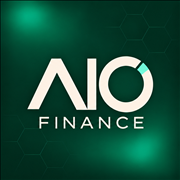
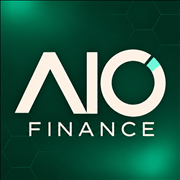
Refresh AIO Finance branding and feature overview

Changed region(s): [[0.0833, 0.25, 1.0, 1.0], [0.0, 0.0, 0.3333, 0.2222], [0.5833, 0.5556, 0.6389, 0.6111]]

diff --git a/src/features.html b/src/features.html
@@ -1,4 +1,6 @@
-<section class="feature-intro" id="hero"><div class="shell"><h1>What AIO Finance Does</h1><p class="lede">See what you can organize, what the planning tools calculate, and which reports you can create.</p><nav class="feature-nav" aria-label="Feature sections"><a href="#overview">Financial Overview</a><a href="#planning">Planning Tools</a><a href="#opportunity">Opportunity Comparison</a><a href="#reports">Reports</a><a href="#privacy">Data Control</a></nav></div></section><section id="overview" class="light"><div class="shell split"><div><p class="eyebrow">Financial Overview</p><h2>Net Worth and Cash Flow</h2><p class="lede">See net worth and cash flow alongside the records behind them. Review changes over time with Snapshot History.</p><ul class="feature-list"><li><strong>Budget &amp; Cash Flow</strong> Review income, expenses, savings allocations, and scheduled income.</li><li><strong>Assets &amp; Liabilities</strong> Organize what you own and owe. Recorded debt payments can feed cash flow and debt tools.</li><li><strong>Insurance &amp; Estate Organization</strong> Keep policy references, ownership, and beneficiary information alongside your financial records.</li></ul></div><div class="duo"><div class="phone"><img loading="lazy" src="assets/product/santorini-dark-budget.webp" width="390" height="844" alt="Budget summary showing cash flow"></div><div class="phone"><img loading="lazy" src="assets/product/santorini-dark-assets.webp" width="390" height="844" alt="Assets records in Accounts"></div></div></div></section>
+<section class="feature-intro" id="hero"><div class="shell"><h1>What AIO Finance Does</h1><p class="lede">See what you can organize, what the planning tools calculate, and which reports you can create.</p><nav class="feature-nav" aria-label="Feature sections"><a href="#overview">Financial Overview</a><a href="#statement-analysis">Statement Analysis</a><a href="#aio-assistant">AIO Assistant</a><a href="#planning">Planning Tools</a><a href="#opportunity">Opportunity Comparison</a><a href="#reports">Reports</a><a href="#privacy">Data Control</a></nav></div></section><section id="overview" class="light"><div class="shell split"><div><p class="eyebrow">Financial Overview</p><h2>Net Worth and Cash Flow</h2><p class="lede">See net worth and cash flow alongside the records behind them. Review changes over time with Snapshot History.</p><ul class="feature-list"><li><strong>Budget &amp; Cash Flow</strong> Review income, expenses, savings allocations, and scheduled income.</li><li><strong>Assets &amp; Liabilities</strong> Organize what you own and owe. Recorded debt payments can feed cash flow and debt tools.</li><li><strong>Insurance &amp; Estate Organization</strong> Keep policy references, ownership, and beneficiary information alongside your financial records.</li></ul></div><div class="duo"><div class="phone"><img loading="lazy" src="assets/product/santorini-dark-budget.webp" width="390" height="844" alt="Budget summary showing cash flow"></div><div class="phone"><img loading="lazy" src="assets/product/santorini-dark-assets.webp" width="390" height="844" alt="Assets records in Accounts"></div></div></div></section>
+<section id="statement-analysis" class="light"><div class="shell split"><div><h2>Statement Analysis</h2><p class="lede">Import checking and credit card activity to see what you spent by month and category. In the app, open Budget &rarr; Expenses &rarr; Analyze Statements.</p><p>Choose CSV, XLSX, or a supported PDF with selectable text. AIO reads the files on your device.</p></div><ul class="feature-list"><li><strong>Review Spending</strong> Review transfers, card payments, and possible duplicates separately from spending. Monthly averages use months fully covered for every account in the review.</li><li><strong>Review Suggested Expenses</strong> Edit recurring expense suggestions and choose which ones to apply to your budget.</li><li><strong>Export Your Findings</strong> Create a Transaction Analysis PDF with an optional transaction appendix.</li></ul></div></section>
+<section id="aio-assistant"><div class="shell split"><div><h2>AIO Assistant</h2><p class="lede">On eligible Apple devices, ask a question about your finances, explore a temporary comparison, or prepare an entry for review.</p><p>Open AIO Assistant beside Settings. It uses the on-device Apple model when available and the app&rsquo;s existing tools for calculations.</p><ul class="feature-list"><li><strong>Review Before Confirming</strong> Check the request and assumptions before running a calculation or preparing an entry. Save any new entry yourself in its form.</li><li><strong>Find Help &amp; Tools</strong> Search the in-app guide and open calculators and features. Android offers Help &amp; Tools.</li></ul></div><figure class="assistant-example"><div class="phone"><img loading="lazy" src="assets/product/aio-assistant-example.png" width="390" height="844" alt="AIO Assistant answers a question about paying an extra $300 per month on an auto loan with estimated interest savings and payoff times."></div><figcaption>Example conversation with fictional loan data</figcaption></figure></div></section>
 <section id="planning" class="light planning"><div class="shell"><div class="section-heading"><h2>Financial Planning Tools</h2><p class="lede">Enter your own assumptions, examine the results, and save supported scenarios to revisit.</p></div><div class="showcase plan-layout"><div class="choices" id="tools" role="group" aria-label="Select a planning tool"></div><div class="plan-copy" id="tool-copy" aria-live="polite"></div><div class="phone"><img id="tool-img" loading="lazy" src="assets/product/santorini-dark-opportunity.webp" width="390" height="844" alt="Opportunity Comparison"></div></div></div></section>
 <section id="opportunity"><div class="shell split"><div><p class="eyebrow">Opportunity Comparison</p><h2>Compare Rental and Business Scenarios</h2><p class="lede">Compare two to four saved Rental Analysis or Business Analysis scenarios. Review what each assumes about financing and operating costs, then compare modeled cash flow and each scenario’s own return measures.</p><p>Open either worksheet to revise its assumptions. AIO displays the results for you to interpret.</p><a class="button" href="#planning" data-opportunity>Explore Opportunity Comparison</a></div><div class="phone"><img loading="lazy" src="assets/product/santorini-dark-opportunity.webp" width="390" height="844" alt="Selected fictional rental and business scenarios in Opportunity Comparison"></div></div></section>
 <section id="reports" class="light"><div class="shell split"><div><h2>Financial Reports and Statements</h2><p class="lede">Create PDFs for your own review or share the reports you choose.</p><ul class="feature-list"><li><strong>Financial Statements</strong> Review your position with a Net Worth Statement, Asset Schedule, or Custom Statement.</li><li><strong>Planning Reports</strong> Export supported analyses such as Investment Projection, debt, rental, and business reports.</li></ul><details><summary>Browse Report Types</summary><p id="report-types"></p></details></div><div id="report-previews" class="papers" aria-label="Fictional report previews"></div></div></section>

diff --git a/src/home.html b/src/home.html
@@ -4,7 +4,9 @@
 <article><h3>Organize Your Finances</h3><p>Track assets, liabilities, income, and expenses. Review net worth and cash flow.</p><a href="features/#overview">Financial Overview</a></article>
 <article><h3>Explore a Decision</h3><p>Estimate investment growth, compare debt strategies, and model rental or business scenarios.</p><a href="features/#planning">Planning Tools</a></article>
 <article><h3>Review and Share Reports</h3><p>Create statements and export available planning results to PDF.</p><a href="features/#reports">Reports and Statements</a></article>
-</div></div></section><section class="light" id="planning-preview"><div class="shell split"><div><h2>Compare Planning Scenarios</h2><p class="lede">Estimate investment growth, explore debt payoff, or model costs and cash flow for a rental or small business.</p><h3>Opportunity Comparison</h3><p>Select two to four saved rental or business scenarios and compare operating profit, financing payments, and cash flow side by side.</p><a class="button" href="features/#opportunity">See Opportunity Comparison</a></div><div class="phone"><img loading="lazy" src="assets/product/santorini-dark-opportunity.webp" width="390" height="844" alt="Opportunity Comparison with fictional rental and business scenarios"></div></div></section><section id="themes" class="theme-section"><div class="shell split"><div><p class="eyebrow">Appearance</p><h2>App Appearance</h2><p class="lede">Choose a theme and a screen to preview the app.</p><div class="theme-groups">
+</div></div></section>
+<section id="statement-and-assistant"><div class="shell split"><div><h2>Statement Analysis</h2><p>Import checking and credit card activity, review where your money went, and choose which expense suggestions to apply to your budget.</p><a class="button" href="features/#statement-analysis">Explore Statement Analysis</a></div><div><h2>AIO Assistant</h2><p>On eligible Apple devices, ask a question about your finances or prepare a temporary comparison. Use Help &amp; Tools to find guides and calculators.</p><a class="button" href="features/#aio-assistant">Explore AIO Assistant</a></div></div></section>
+<section class="light" id="planning-preview"><div class="shell split"><div><h2>Compare Planning Scenarios</h2><p class="lede">Estimate investment growth, explore debt payoff, or model costs and cash flow for a rental or small business.</p><h3>Opportunity Comparison</h3><p>Select two to four saved rental or business scenarios and compare operating profit, financing payments, and cash flow side by side.</p><a class="button" href="features/#opportunity">See Opportunity Comparison</a></div><div class="phone"><img loading="lazy" src="assets/product/santorini-dark-opportunity.webp" width="390" height="844" alt="Opportunity Comparison with fictional rental and business scenarios"></div></div></section><section id="themes" class="theme-section"><div class="shell split"><div><p class="eyebrow">Appearance</p><h2>App Appearance</h2><p class="lede">Choose a theme and a screen to preview the app.</p><div class="theme-groups">
 <div role="group" aria-labelledby="dark-themes-label"><h3 id="dark-themes-label">Dark Themes</h3><div id="dark-themes" class="choices swatches"></div></div>
 <div role="group" aria-labelledby="light-themes-label"><h3 id="light-themes-label">Light Themes</h3><div id="light-themes" class="choices swatches"></div></div>
 </div>

diff --git a/src/reports.js b/src/reports.js
@@ -1,1 +1,1 @@
-window.AIO_REPORTS = {"types":["Financial Overview","Net Worth Statement","Asset Schedule","Liability Schedule","Investment Projection","Loan Calculator","Existing-Liability Amortization","Rental Analysis","Business Analysis","Opportunity Comparison","The Stress Test","Growing Your Family","Homeownership","Custom Statement","Compare Loans","Payoff vs. Investing"],"previews":[["net-worth-statement","Net Worth Statement"],["opportunity-comparison","Opportunity Comparison"],["custom-statement","Custom Statement"],["rental-analysis","Rental Analysis"]]};
+window.AIO_REPORTS = {"types":["Financial Overview","Net Worth Statement","Asset Schedule","Liability Schedule","Investment Projection","Loan Calculator","Existing-Liability Amortization","Rental Analysis","Business Analysis","Opportunity Comparison","The Stress Test","Growing Your Family","Homeownership","Custom Statement","Compare Loans","Payoff vs. Investing","Transaction Analysis"],"previews":[["net-worth-statement","Net Worth Statement"],["opportunity-comparison","Opportunity Comparison"],["custom-statement","Custom Statement"],["rental-analysis","Rental Analysis"]]};

diff --git a/src/product.css b/src/product.css
@@ -87,3 +87,5 @@ html{-webkit-text-size-adjust:100%;text-size-adjust:100%}
     grid-template-columns: 1fr;
   }
 }
+
+.assistant-example{display:grid;justify-items:center;gap:12px;margin:0}.assistant-example figcaption{color:var(--muted);text-align:center;font-size:.875rem}
